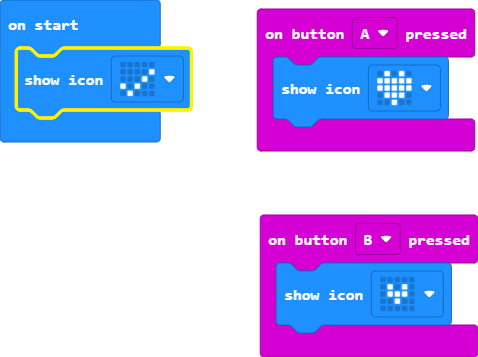
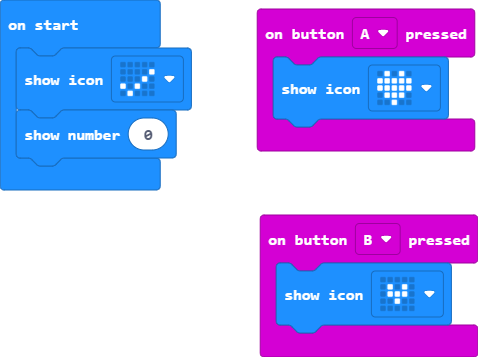
Update main.blocks, main.ts

Changed region(s): [[0.0, 0.1232, 0.41, 0.5546]]

diff --git a/main.ts b/main.ts
@@ -5,3 +5,4 @@ input.onButtonPressed(Button.B, function () {
     basic.showIcon(IconNames.SmallHeart)
 })
 basic.showIcon(IconNames.Yes)
+basic.showNumber(0)
